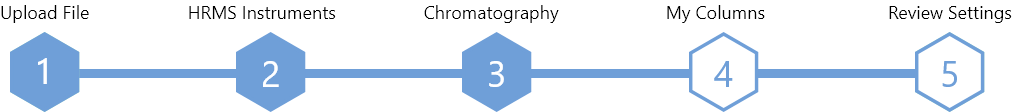
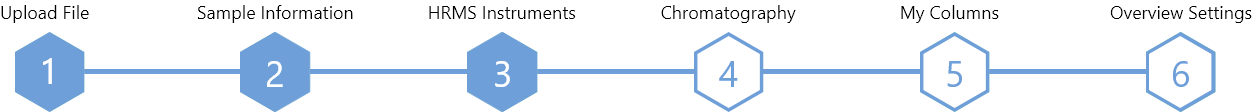
no message

diff --git a/application/templates/acquisition.html b/application/templates/acquisition.html
@@ -4,14 +4,16 @@
 <div class="container my-5 rounded job_manage_box d-flex">
     <div class="d-flex flex-column w-100">
         <div class="steps w-100 d-flex mb-5" id="stepImg">
-            <img class="col-9 m-auto" src="{{ url_for('static', filename='imgs/step1.png') }}" alt="Step-1">
-            <img style="display: none" class="col-9 m-auto" src="{{ url_for('static', filename='imgs/step2.png') }}" alt="Step-2">
-            <img style="display: none" class="col-9 m-auto" src="{{ url_for('static', filename='imgs/step3.png') }}" alt="Step-3">
-            <img style="display: none" class="col-9 m-auto" src="{{ url_for('static', filename='imgs/step4.png') }}" alt="Step-4">
-            <img style="display: none" class="col-9 m-auto" src="{{ url_for('static', filename='imgs/step5.png') }}" alt="Step-5">
+            <img class="col-10 m-auto" src="{{ url_for('static', filename='imgs/step1.png') }}" alt="Step-1">
+            <img style="display: none" class="col-10 m-auto" src="{{ url_for('static', filename='imgs/step2.png') }}" alt="Step-2">
+            <img style="display: none" class="col-10 m-auto" src="{{ url_for('static', filename='imgs/step3.png') }}" alt="Step-3">
+            <img style="display: none" class="col-10 m-auto" src="{{ url_for('static', filename='imgs/step4.png') }}" alt="Step-4">
+            <img style="display: none" class="col-10 m-auto" src="{{ url_for('static', filename='imgs/step5.png') }}" alt="Step-5">
+            <img style="display: none" class="col-10 m-auto" src="{{ url_for('static', filename='imgs/step6.png') }}" alt="Step-6">
         </div>
         <div class="content-section border rounded" id="topLabels">
-            <p class="text text-light bg-secondary rounded-top p-3">Upload Files And Type In Some Sample Informations:</p>
+            <p class="text text-light bg-secondary rounded-top p-3">Upload Files</p>
+            <p class="text text-light bg-secondary rounded-top p-3" style="display: none">Sample Information:</p>
             <p class="text text-light bg-secondary rounded-top p-3" style="display: none">HRMS Instruments:</p>
             <p class="text text-light bg-secondary rounded-top p-3" style="display: none">Chromatography:</p>
             <p class="text text-light bg-secondary rounded-top p-3" style="display: none">My Columns:</p>
@@ -19,7 +21,7 @@
             <form method="POST" action="" enctype="multipart/form-data">
                 {{ form.hidden_tag() }}
                 <fieldset class="form-group px-5 py-2 d-flex flex-column" id="forms">
-                    <div id="form1">
+                    <div id="form0">
                         <legend class="border-bottom pb-2 mt-3 stepLable" style="display: none">
                             Upload Files And Sample Information
                         </legend>
@@ -116,7 +118,15 @@
                             </div>
                         {% endif %}
 
-                         <!--The part of the sample location-->
+                    </div>
+
+                    <!--Input of HRMS Instruments-->
+                    <div id="form1" style="display: none">
+                        <legend class="border-bottom pb-2 mt-5 stepLable" style="display: none">
+                            Sample Information
+                        </legend>
+
+                        <!--The part of the sample location-->
                          <!--Sample type-->
                          <div class="form-group">
                             {{ form.sample_type.label(class="form-control-label") }}

diff --git a/application/static/js/homepage.js b/application/static/js/homepage.js
@@ -40,7 +40,7 @@ $(document).ready(function(){
         currentStepLabel.hide();
         currentStepLabel = currentStepLabel.next();
 
-        if(currentStep.get(0).id != "form1"){
+        if(currentStep.get(0).id != "form0"){
             $('#prevStep').show();
         }
 
@@ -65,6 +65,10 @@ $(document).ready(function(){
             
             $('#nextStep').show();
             $('.stepLable').hide();
+        }
+
+        if(currentStep.prev().get(0).id == "form0"){
+            $('#prevStep').hide();
         }
         
         currentStep.prev().show();

diff --git a/application/config.py b/application/config.py
@@ -2,7 +2,7 @@ import os
 
 class Config:
     SECRET_KEY = '3204436496843db0b799220bd0c151b2'
-    SQLALCHEMY_DATABASE_URI = 'mysql+pymysql://root@localhost/deco3801'
+    SQLALCHEMY_DATABASE_URI = 'mysql+pymysql://root:wsadghjvbn@localhost/deco3801'
     MAIL_SERVER = 'smtp.googlemail.com'
     MAIL_PORT = 587
     MAIL_USE_TLS = True

diff --git a/application/hams/utils.py b/application/hams/utils.py
@@ -1,7 +1,7 @@
 import secrets
 import os
 import boto3
-import LibrarySearch_v1
+#import LibrarySearch_v1
 from os.path import join
 from flask import url_for, current_app, request
 
